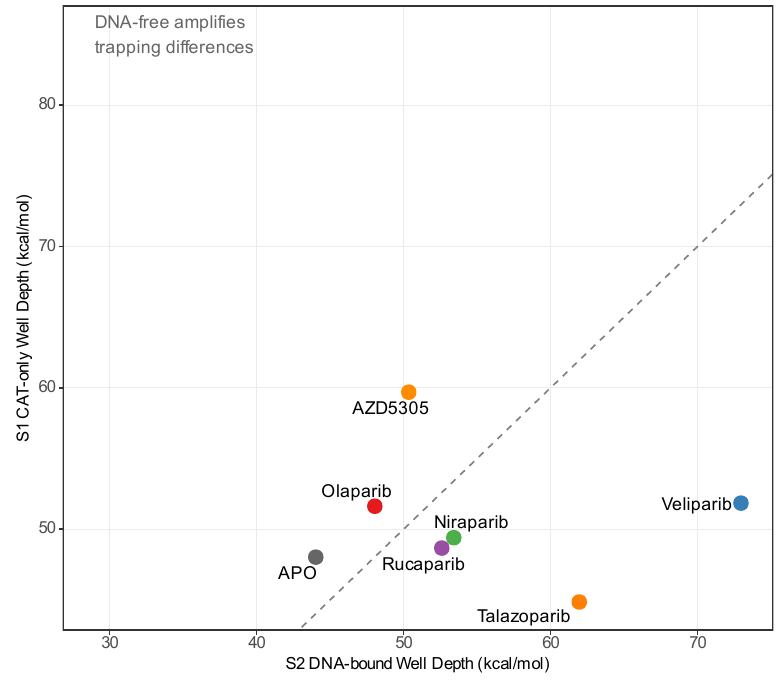
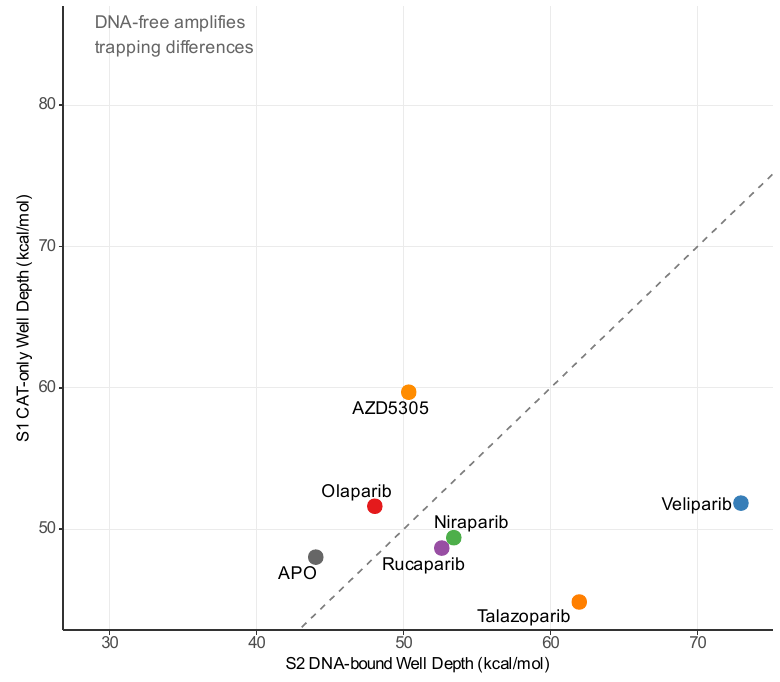
Figure style: open-frame panels for single-panel SI figures (S3/S4/S5/S10/S11)
- common/helpers.R: add theme_open (no top/right borders, left/bottom axis lines)
- Apply to code/09 overlay, code/10 overlays, code/12 S11, code/28 S10
- Grid/facet figures unchanged (per review); figures + 150-dpi previews updated
- SI recompiled; submission package synced

Changed region(s): [[0.9846, 0.0, 1.0, 0.9238]]

diff --git a/docs/standardisation_report.md b/docs/standardisation_report.md
@@ -101,6 +101,15 @@ Seeds (e.g. `set.seed(49)`) are retained by design.
 | `code/30` re-run | writes to `results/analysis/` only |
 | Metadata checksum script `scripts/s10_verify_manifest.py` | coherent with the updated `data_manifest.md` (regenerable paths flagged) |
 
+
+- **Figure-style revision (2026-10-05, later round)**: open-frame panel style
+  (top/right borders removed, left/bottom axis lines retained) applied to the
+  single-panel SI figures S3, S4, S5, S10, S11 via `theme_open` in
+  `common/helpers.R`, and to S12 via `code/39`. Grid/facet figures
+  (S1/S2/S6/S7/S8/S9/S13/S14 and the S15-S17 base-R panels) intentionally keep
+  their existing frames. The SI was recompiled and the submission package
+  updated accordingly.
+
 ## 7. Known limits
 
 - Raw trajectories are not distributed; scripts that read them require
